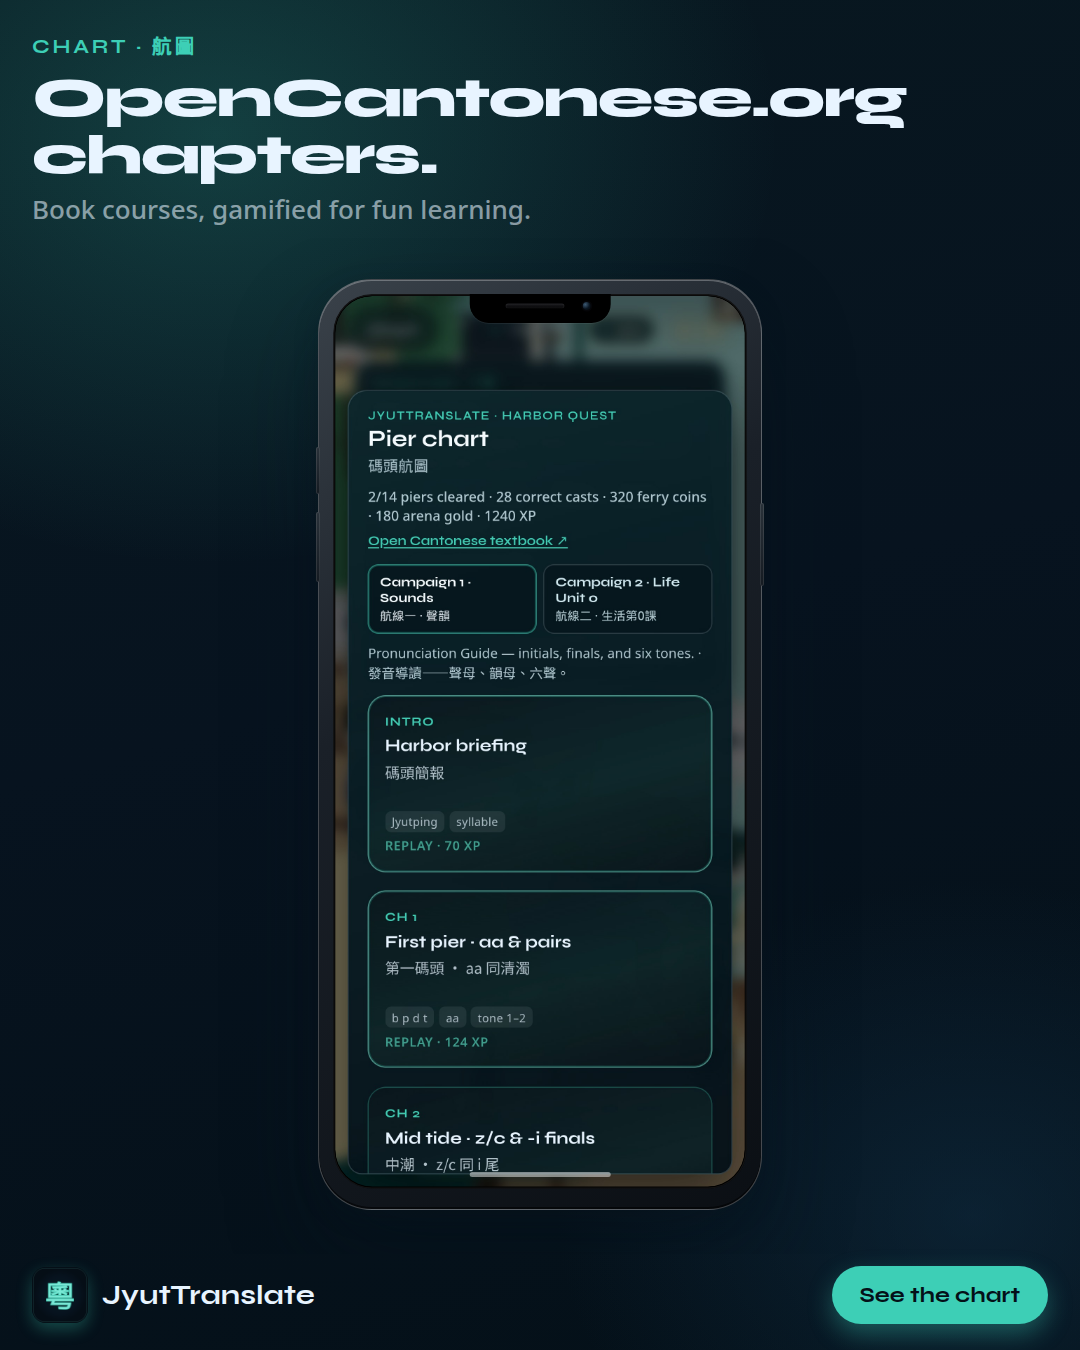
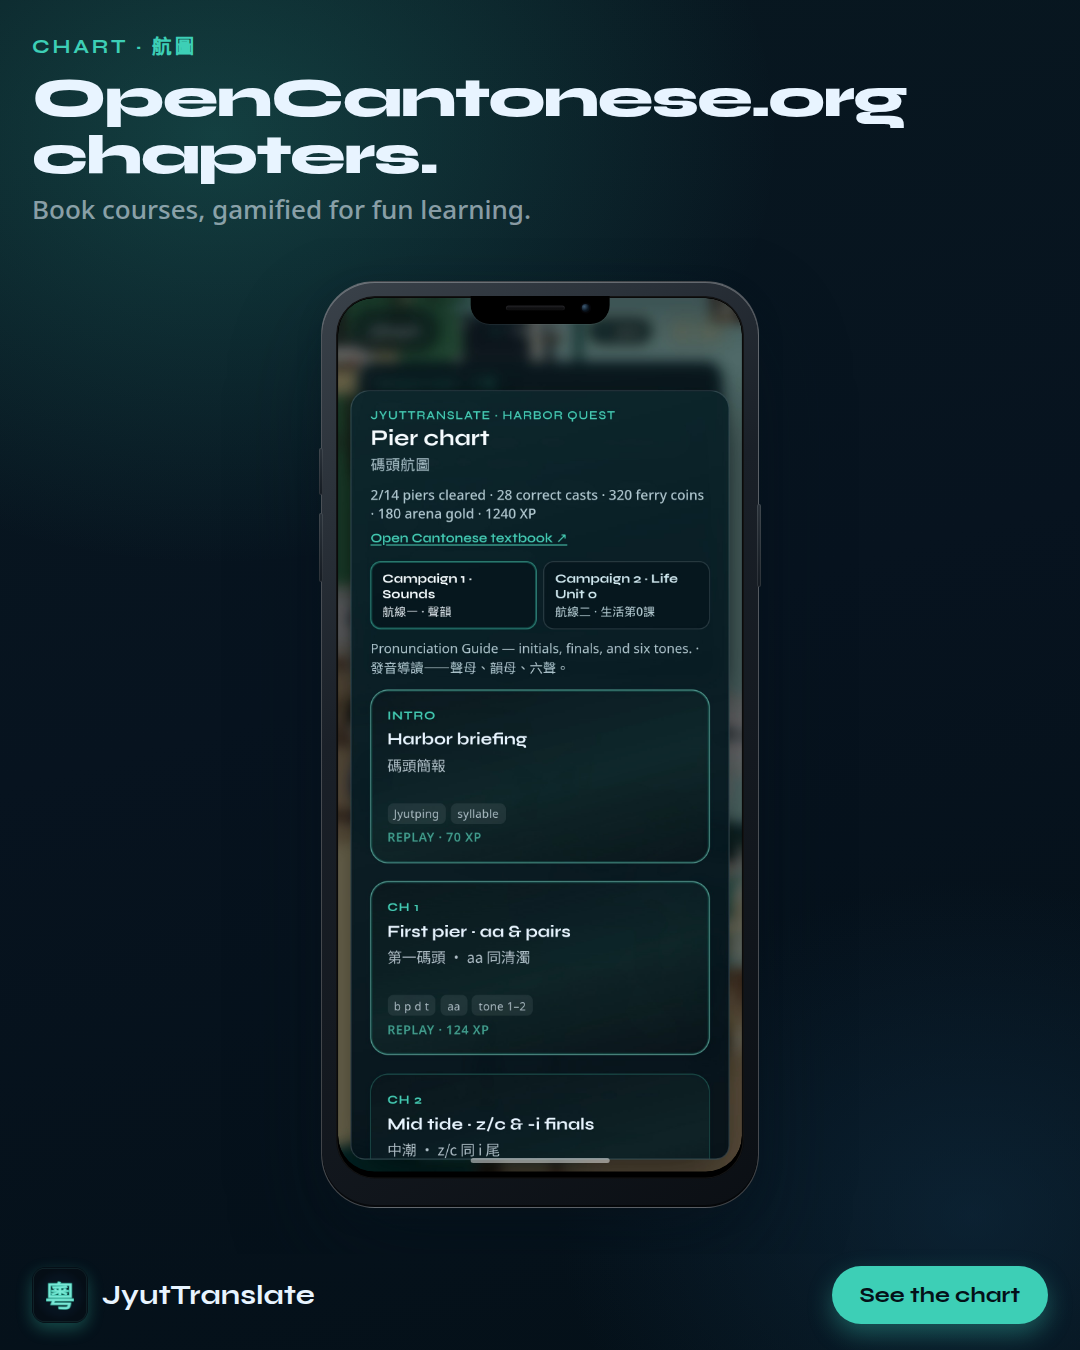
Harbor Quest IG: taller phone chin so chart/list shots stay inside
Give slides 02–05 more bottom bezel and screen inset so pier-chart and
campaign list CTAs don’t sit on the home-indicator edge of the frame.

Changed region(s): [[0.275, 0.2178, 0.7028, 0.9022], [0.5194, 0.2178, 0.55, 0.2489]]

diff --git a/docs/social/ig-posts/harbor-quest.css b/docs/social/ig-posts/harbor-quest.css
@@ -108,40 +108,46 @@
   --phone-screen-radius: 39px;
   --phone-shot-w: 1170;
   --phone-shot-h: 2532;
-  width: min(560px, calc((100cqh - 36px) * var(--phone-shot-w) / var(--phone-shot-h))) !important;
+  width: min(520px, calc((100cqh - 48px) * var(--phone-shot-w) / var(--phone-shot-h))) !important;
   height: auto;
-  max-height: calc(100% - 4px);
+  max-height: calc(100% - 8px);
   flex-shrink: 1;
-  /* Extra bottom chrome so the home-indicator / CTA zone doesn’t read as spilling onto the frame */
-  padding: var(--phone-bezel) var(--phone-bezel) calc(var(--phone-bezel) + 6px);
+  /* Tall bottom chin so list/CTA shots don’t read as painted on the frame */
+  padding: var(--phone-bezel) var(--phone-bezel) calc(var(--phone-bezel) + 14px);
 }
 
 .hq-ig--story .phone {
-  width: min(680px, calc((100cqh - 36px) * var(--phone-shot-w) / var(--phone-shot-h))) !important;
+  width: min(640px, calc((100cqh - 48px) * var(--phone-shot-w) / var(--phone-shot-h))) !important;
 }
 
 /* Hard-mask the screen so screenshot corners never paint over the metal bezel */
 .hq-ig .phone__bezel {
-  overflow: hidden;
+  overflow: hidden !important;
   border-radius: var(--phone-screen-radius);
   clip-path: inset(0 round var(--phone-screen-radius));
+  isolation: isolate;
 }
 
 .hq-ig .phone__screen {
-  /* 2px inset keeps the shot clearly inside the metal — avoids CTA/home zone
-     reading as if it’s painted on top of the bottom bezel */
-  inset: 2px;
-  overflow: hidden;
-  border-radius: calc(var(--phone-screen-radius) - 2px);
-  clip-path: inset(0 round calc(var(--phone-screen-radius) - 2px));
+  /* Extra bottom inset — list UIs (chart/cast) run into the home zone and
+     otherwise look like they spill onto the chin */
+  inset: 2px 2px 7px;
+  overflow: hidden !important;
+  border-radius: calc(var(--phone-screen-radius) - 3px);
+  clip-path: inset(0 round calc(var(--phone-screen-radius) - 3px));
 }
 
 .hq-ig .phone__shot {
-  border-radius: calc(var(--phone-screen-radius) - 2px);
+  border-radius: calc(var(--phone-screen-radius) - 3px);
+  display: block;
+  width: 100%;
+  height: 100%;
+  object-fit: fill;
 }
 
 .hq-ig .phone__home {
-  bottom: calc(1.05% + 2px);
+  bottom: calc(1.05% + 6px);
+  z-index: 6;
 }
 
 .hq-ig__foot {
